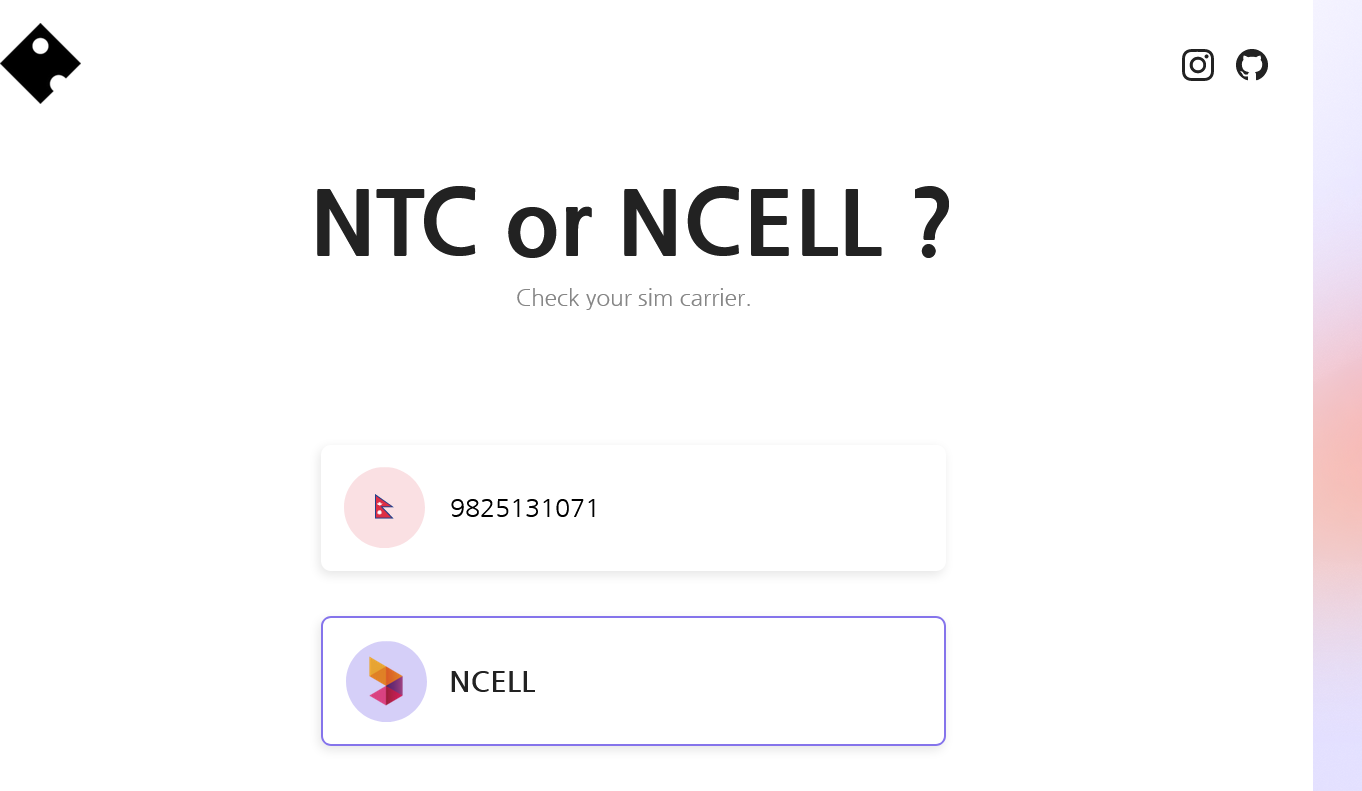
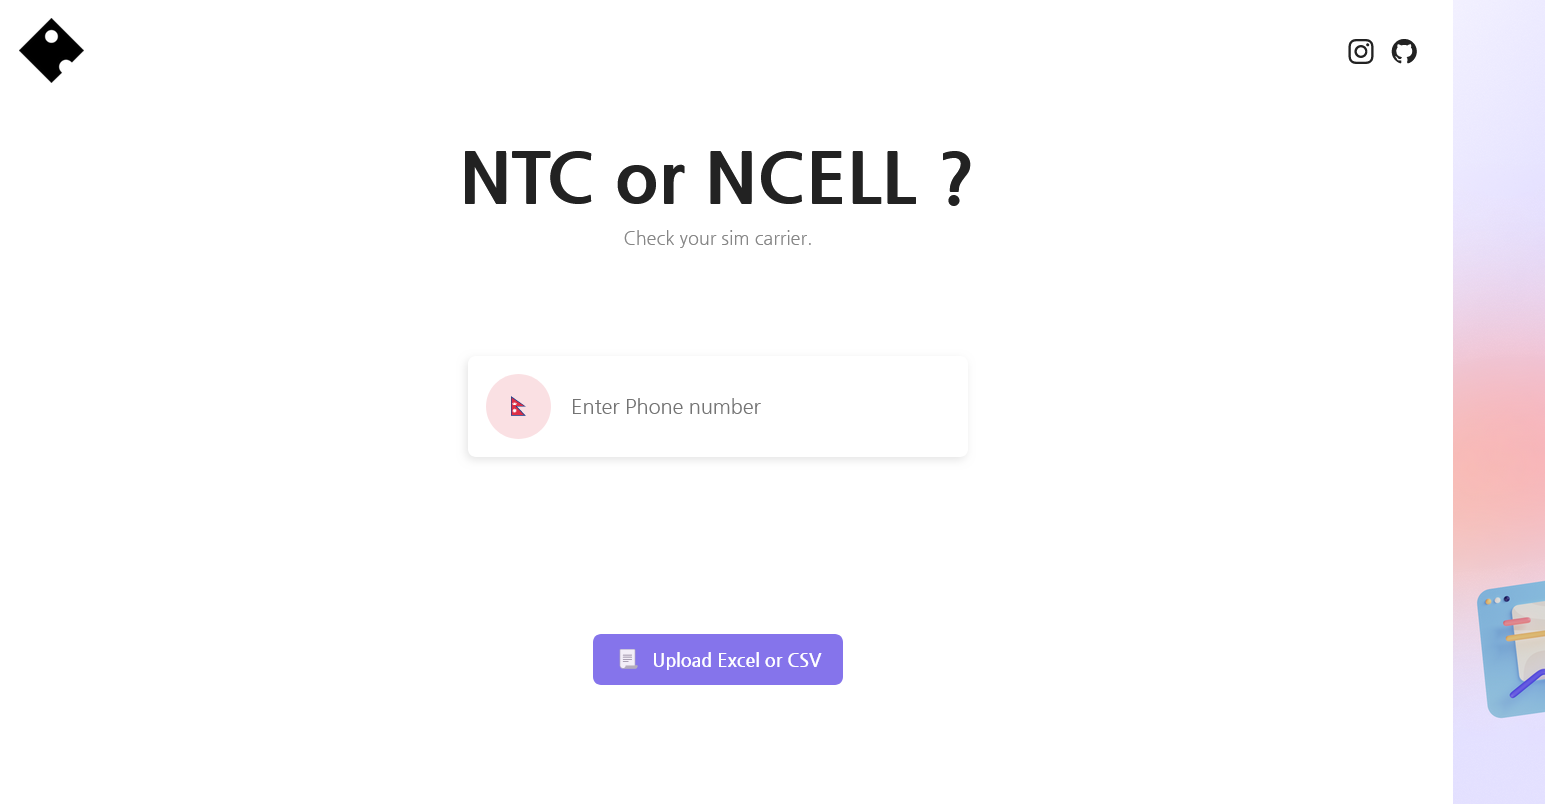
update some meta and readme

diff --git a/index.html b/index.html
@@ -4,10 +4,11 @@
 <head>
   <meta charset="UTF-8" />
   <meta http-equiv="X-UA-Compatible" content="IE=edge" />
-  <meta name="description" content="How to check Ntc or Ncell mobile numbers" />
+  <meta name="description"
+    content="Check the carrier (NTC or Ncell) of mobile numbers in bulk using this tool. Supports XLS and CSV files for easy checking and exporting." />
   <meta name="viewport" content="width=device-width, initial-scale=1" />
 
-  <meta property="og:title" content="Check Ncell number or NTC number" />
+  <meta property="og:title" content="Check Ncell or NTC" />
   <meta property="og:type" content="website" />
   <meta property="og:url" content="https://ncellorntc.vercel.app/" />
   <meta property="og:image" content="./images/og.png" />
@@ -15,12 +16,17 @@
   <link rel="icon" href="https://pbs.twimg.com/media/CJcscj_UAAEQr5j.jpg" sizes="any" />
   <link rel="icon" href="https://pbs.twimg.com/media/CJcscj_UAAEQr5j.jpg" type="image/svg+xml" />
   <link rel="apple-touch-icon" href="https://pbs.twimg.com/media/CJcscj_UAAEQr5j.jpg" />
+  <meta name="author" content="Anjit Pariyar">
 
   <link rel="stylesheet" href="css/normalize.css" />
   <link rel="stylesheet" href="css/style.css" />
+  <link rel="canonical" href="https://www.anjitpariyar.com.np/">
 
   <link rel="manifest" href="site.webmanifest" />
   <meta name="theme-color" content="#ffffff" />
+
+
+
   <title>Check Nepal Carrier (NTC or NCELL)</title>
   <link rel="preconnect" href="https://fonts.googleapis.com" />
   <link rel="preconnect" href="https://fonts.gstatic.com" crossorigin />

diff --git a/README.md b/README.md
@@ -2,10 +2,12 @@
 
 <br />
 
-Check Numbers, NTC or NCELL
+Check the carrier (NTC or Ncell) of mobile numbers in bulk using this tool. Supports XLS and CSV files for easy checking and exporting.
 
 **how to use**
 
-- visit the <a href="https://checkcarrier.vercel.app/" target="_blank"> website </a>
+- visit the <a href="https://ncellorntc.vercel.app/" target="_blank"> website </a>
 - Enter your number
+  -For bulk number you can upload XLS and CSV file
+- after checking you can also export the file
 - yeah thats all
